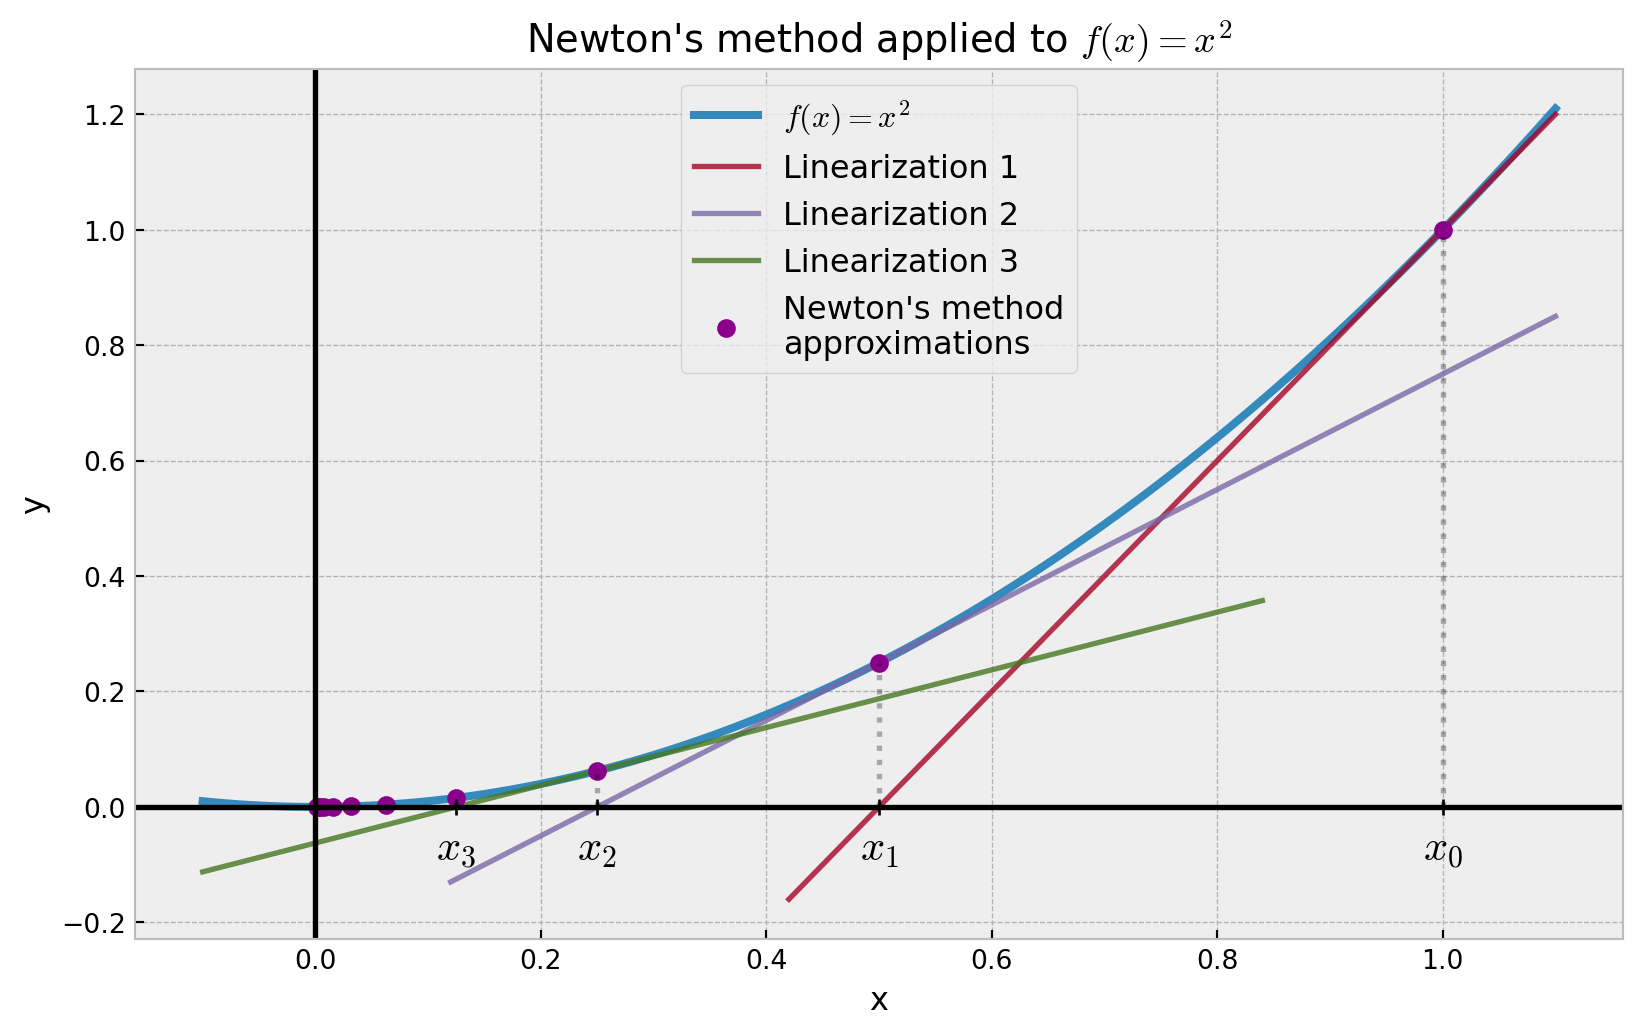
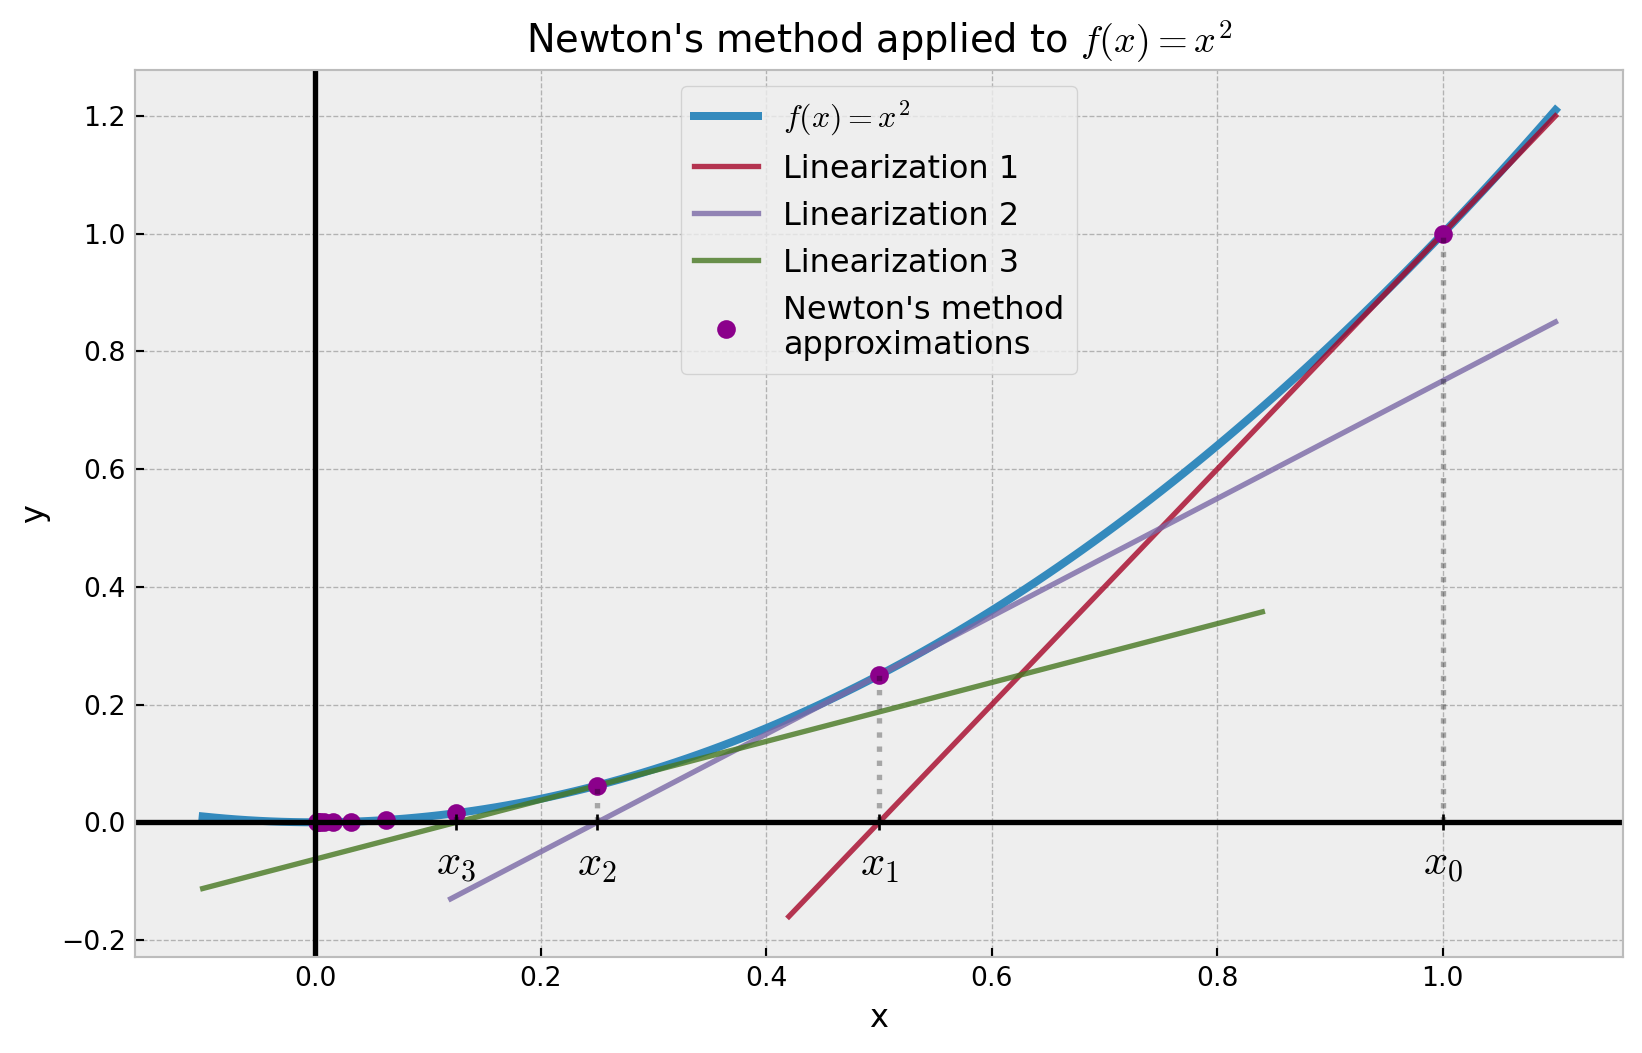
fix gist in plotly theme

diff --git a/docs/posts/2021-04-05-newton-method/index.html b/docs/posts/2021-04-05-newton-method/index.html
@@ -260,18 +260,18 @@ code span.wa { color: #60a0b0; font-weight: bold; font-style: italic; } /* Warni
 <hr>
 <section id="newtons-idea-an-overview" class="level3">
 <h3 class="anchored" data-anchor-id="newtons-idea-an-overview">Newton’s idea (an overview)</h3>
-<p>One way of solving this problem is to <em>linearize</em> the function <span class="math inline">f(x)</span> around a certain point <span class="math inline">x_0</span> of our choice so that we can easily solve the resulting linear equation. Say we get <span class="math inline">x_1</span> as a solution, then we repeat linearizing <span class="math inline">f(x)</span> around <span class="math inline">x_1</span>; so on and so forth. The initial point <span class="math inline">x_0</span> is chosen such that it is close to our hoped solution, say, <span class="math inline">x^*</span>. The idea is that if <span class="math inline">x_0</span> is suitably chosen, then the solutions <span class="math inline">x_1, x_2, x_3, \ldots</span> to each linear approximation of <span class="math inline">f(x)</span> approximates <span class="math inline">x^*</span> better and better, and in the limit converges to <span class="math inline">x^*</span>. This whole process is known as the <strong>Newton’s method</strong>. A nice picture of the method can be seen in <a href="#fig-newton">Figure&nbsp;1</a>. Here, Newton’s method is applied to <span class="math inline">f(x) = x^2</span> over <span class="math inline">n = 10</span> iterations, starting at <span class="math inline">x_0 = 1</span>.</p>
-<p>We see from <a href="#fig-newton">Figure&nbsp;1</a> that the Newton’s method converges towards <span class="math inline">x^* = 0</span>, as expected: <span class="math inline">f(x) = 0</span> if and only if <span class="math inline">x = 0</span>.</p>
+<p>One way of solving this problem is to <em>linearize</em> the function <span class="math inline">f(x)</span> around a certain point <span class="math inline">x_0</span> of our choice so that we can easily solve the resulting linear equation. Say we get <span class="math inline">x_1</span> as a solution, then we repeat linearizing <span class="math inline">f(x)</span> around <span class="math inline">x_1</span>; so on and so forth. The initial point <span class="math inline">x_0</span> is chosen such that it is close to our hoped solution, say, <span class="math inline">x^*</span>. The idea is that if <span class="math inline">x_0</span> is suitably chosen, then the solutions <span class="math inline">x_1, x_2, x_3, \ldots</span> to each linear approximation of <span class="math inline">f(x)</span> approximates <span class="math inline">x^*</span> better and better, and in the limit converges to <span class="math inline">x^*</span>. This whole process is known as the <strong>Newton’s method</strong>.</p>
+<p>A nice picture of the Newton’s method can be seen in <a href="#fig-newton">Figure&nbsp;1</a>. Here, Newton’s method is applied to the function <span class="math inline">f(x) = x^2</span> over <span class="math inline">n = 10</span> iterations, starting at <span class="math inline">x_0 = 1</span>. We see from <a href="#fig-newton">Figure&nbsp;1</a> that the <span class="math inline">x_i</span> values converges to <span class="math inline">x^* = 0</span> which is expected since <span class="math inline">x^2 = 0</span> if and only if <span class="math inline">x = 0</span>.</p>
 <hr>
 </section>
 <section id="newtons-idea-the-algebra" class="level3">
 <h3 class="anchored" data-anchor-id="newtons-idea-the-algebra">Newton’s idea (the algebra)</h3>
-<p>Let us make our discussion above more precise. Linearizing <span class="math inline">f(x)</span> around <span class="math inline">x_0</span> simply means Taylor expanding <span class="math inline">f</span> around <span class="math inline">x_0</span> and neglecting <span class="math inline">\mathcal{O}(h^2)</span> terms. Of course, this is assuming that we can actually perform Taylor expansion in the first place! Explicitly, the Taylor expansion of <span class="math inline">f</span> around <span class="math inline">x_0</span> yields</p>
-<p><span class="math display">f(x) = f(x_0) + f'(x_0) (x - x_0) + \mathcal{O}(h^2). </span></p>
-<p>So if we neglect <span class="math inline">\mathcal{O}(h^2)</span> terms, we get (in approximation) the linear equation</p>
+<p>Let us make our discussion above more precise. Linearizing <span class="math inline">f(x)</span> around <span class="math inline">x_0</span> simply means Taylor expanding <span class="math inline">f</span> around <span class="math inline">x_0</span> and neglecting <span class="math inline">\mathcal{O}(h^2)</span> terms. Of course… this is assuming that we can actually perform Taylor expansion in the first place. With that disclaimer out of the way, the Taylor expansion of <span class="math inline">f</span> around <span class="math inline">x_0</span> yields</p>
+<p><span class="math display">f(x) = f(x_0) + f'(x_0) (x - x_0) + \mathcal{O}(h^2) \approx f(x_0) + f'(x_0) (x - x_0). </span></p>
+<p>So if we neglect <span class="math inline">\mathcal{O}(h^2)</span> terms, we get the linear equation</p>
 <p><span class="math display">f(x) = f(x_0) + f'(x_0) (x - x_0).</span></p>
-<p>The solution to this linear equation is thus simply</p>
-<p><span class="math display">x_1 = x_0 - \frac{f(x_0)}{f'(x_0)}.</span></p>
+<p>So a solution <span class="math inline">x_1</span> that satisfy <span class="math inline">f(x_1) = 0</span> is given by</p>
+<p><span class="math display">x_1 = x_0 - \frac{f(x_0)}{f'(x_0)}</span></p>
 <p>We then repeat the process by linearizing <span class="math inline">f</span> around <span class="math inline">x_1</span>. In this case we have</p>
 <p><span class="math display">f(x) = f(x_1) + f'(x_1) (x - x_1) \implies x_2 = x_1 - \frac{f(x_1)}{f'(x_1)}, </span></p>
 <p>with <span class="math inline">x_2</span> being a solution. Doing this iteratively yields a general formula</p>
@@ -410,7 +410,7 @@ code span.wa { color: #60a0b0; font-weight: bold; font-style: italic; } /* Warni
 <div class="cell-output cell-output-display">
 <div id="fig-newton" class="quarto-figure quarto-figure-center anchored">
 <figure class="figure">
-<p><img src="index_files/figure-html/fig-newton-output-1.png" width="821" height="518" class="figure-img"></p>
+<p><img src="index_files/figure-html/fig-newton-output-1.png" width="821" height="527" class="figure-img"></p>
 <p></p><figcaption class="figure-caption">Figure&nbsp;1: Newton’s method applied to <span class="math inline">f(x) = x^2</span>, starting at <span class="math inline">x_0 = 1</span>.</figcaption><p></p>
 </figure>
 </div>

diff --git a/docs/index.html b/docs/index.html
@@ -278,7 +278,7 @@ Salman Faris
 </a>
 </div>
 </div>
-<div class="quarto-post image-right" data-index="2" data-categories="javascript,plotly,python,web dev" data-listing-date-sort="1623538800000" data-listing-file-modified-sort="1676838712422" data-listing-reading-time-sort="1.715">
+<div class="quarto-post image-right" data-index="2" data-categories="javascript,plotly,python,web dev" data-listing-date-sort="1623538800000" data-listing-file-modified-sort="1677102782786" data-listing-reading-time-sort="1.72">
 <div class="thumbnail">
 <p><a href="./posts/2021-06-13-plotly-theme-in-react-plotly-js/index.html"> <img src="./posts/2021-06-13-plotly-theme-in-react-plotly-js/plotly_py_plot.png" class="thumnail-image"> </a></p>
 </div>
@@ -451,7 +451,7 @@ Salman Faris
 </a>
 </div>
 </div>
-<div class="quarto-post image-right" data-index="6" data-categories="numerical analysis,algorithm" data-listing-date-sort="1617577200000" data-listing-file-modified-sort="1676838801502" data-listing-reading-time-sort="5.815">
+<div class="quarto-post image-right" data-index="6" data-categories="numerical analysis,algorithm" data-listing-date-sort="1617577200000" data-listing-file-modified-sort="1677101421728" data-listing-reading-time-sort="5.915">
 <div class="thumbnail">
 <p><a href="./posts/2021-04-05-newton-method/index.html"> <img src="./posts/2021-04-05-newton-method/newton-method.png" class="thumnail-image"> </a></p>
 </div>

diff --git a/docs/posts/2021-06-13-plotly-theme-in-react-plotly-js/index.html b/docs/posts/2021-06-13-plotly-theme-in-react-plotly-js/index.html
@@ -250,7 +250,7 @@ code span.wa { color: #60a0b0; font-weight: bold; font-style: italic; } /* Warni
 <span id="cb2-5"><a href="#cb2-5" aria-hidden="true" tabindex="-1"></a>    ...</span>
 <span id="cb2-6"><a href="#cb2-6" aria-hidden="true" tabindex="-1"></a>})</span></code><button title="Copy to Clipboard" class="code-copy-button"><i class="bi"></i></button></pre></div>
 <p>As you can see, it is in serialized JSON format. The idea now then is to deserialize this layout settings into a JavaScript object literal and pass it into the layout of your plot in Plotly.js. I did the deserialize process manually because I cannot find a way to automate this process (I would love to hear if you are able to do it!). For the default plotly theme, the JavaScript object literal is given below:</p>
-<p>[gist:id=0995e0808a22aca8f4afb5faeb4d79c7]</p>
+<script src="https://gist.github.com/salfaris/0995e0808a22aca8f4afb5faeb4d79c7.js"></script>
 <blockquote class="blockquote">
 <p>Note: Stating the obvious but since the layout setting is extracted from the Plotly documentation, it is the hard work of the people behind Plotly. Thank you for the awesome theme!</p>
 </blockquote>
